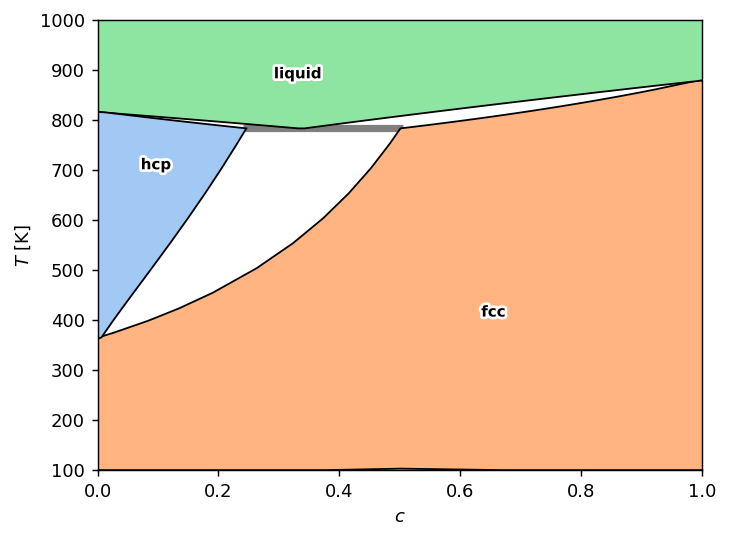
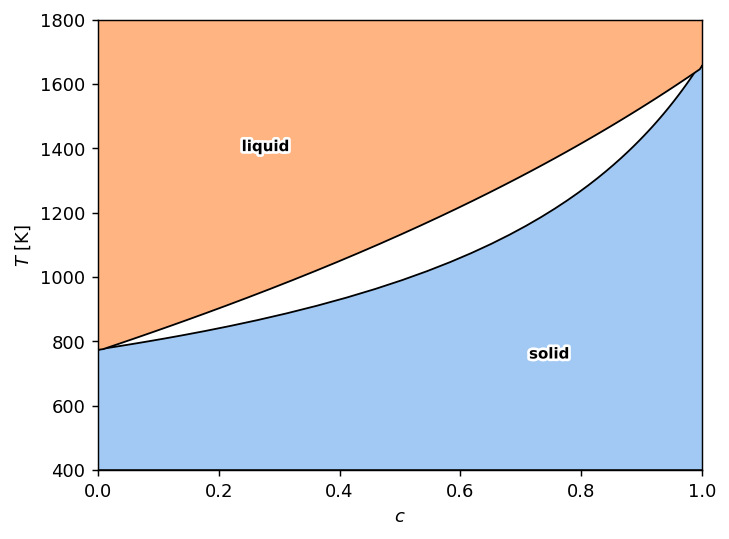
Slim README quickstart to two phases
Replace the three-solution hcp/fcc/liquid example with the solid/liquid
lens from IdealSolution.ipynb: half the code for the first block a
reader sees.  Re-render the figure to match the snippet.

diff --git a/README.md b/README.md
@@ -21,32 +21,27 @@ pip install landau
 
 ## Quickstart
 
-Phases are defined by their free energies.  Combining end member phases into
-(ideal) solutions and scanning over temperature and chemical potential
-difference gives a full binary phase diagram in a few lines:
+Phases are defined by their free energies.  Two ideal solutions — a solid and
+a liquid — already give a full binary phase diagram:
 
 ```python
 import numpy as np
-from landau import LinePhase, IdealSolution
-from landau.phases import kB
+from landau import LinePhase, IdealSolution, plot_phase_diagram
 from landau.calculate import calc_phase_diagram
-from landau.plot import plot_phase_diagram
+from landau.phases import kB
 
-hcp = IdealSolution("hcp",
-    LinePhase("hcpA", fixed_concentration=0, line_energy=-2.975, line_entropy=1.8 * kB),
-    LinePhase("hcpB", fixed_concentration=1, line_energy=-1.95,  line_entropy=1.1 * kB))
-fcc = IdealSolution("fcc",
-    LinePhase("fccA", fixed_concentration=0, line_energy=-3.00, line_entropy=1.0 * kB),
-    LinePhase("fccB", fixed_concentration=1, line_energy=-2.00, line_entropy=1.1 * kB))
+solid = IdealSolution("solid",
+    LinePhase("A",    fixed_concentration=0, line_energy=-2.0, line_entropy=1.0 * kB),
+    LinePhase("B",    fixed_concentration=1, line_energy=-3.0, line_entropy=1.5 * kB))
 liquid = IdealSolution("liquid",
-    LinePhase("liquidA", fixed_concentration=0, line_energy=-2.75, line_entropy=5.0 * kB),
-    LinePhase("liquidB", fixed_concentration=1, line_energy=-1.75, line_entropy=4.4 * kB))
+    LinePhase("A(l)", fixed_concentration=0, line_energy=-1.9, line_entropy=2.5 * kB),
+    LinePhase("B(l)", fixed_concentration=1, line_energy=-2.9, line_entropy=2.2 * kB))
 
-df = calc_phase_diagram([hcp, fcc, liquid], Ts=np.linspace(100, 1000, 100), mu=100)
-plot_phase_diagram(df, tielines=True)
+df = calc_phase_diagram([solid, liquid], Ts=np.linspace(400, 1800, 100), mu=100)
+plot_phase_diagram(df)
 ```
 
-![Concentration-temperature phase diagram of three ideal solution phases](https://raw.githubusercontent.com/eisenforschung/landau/main/docs/images/quickstart_phase_diagram.png)
+![Concentration-temperature phase diagram of a solid and a liquid ideal solution](https://raw.githubusercontent.com/eisenforschung/landau/main/docs/images/quickstart_phase_diagram.png)
 
 `calc_phase_diagram` returns a plain pandas dataframe of `(T, mu, phase, c, phi)`
 samples that the plotting functions consume, so intermediate results stay easy